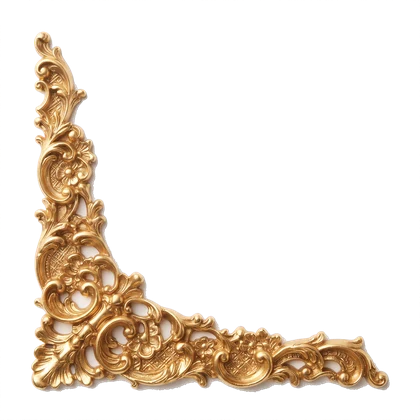
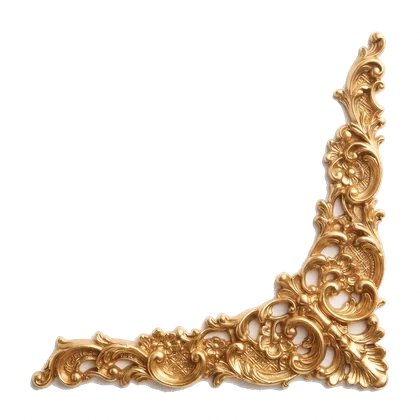
XV Niralys: rosas pequeñas en la portada, coronas mas grandes, esquinas al derecho, ?sinmarca para revisar

diff --git a/mis-xv-niralys/index.html b/mis-xv-niralys/index.html
@@ -458,7 +458,7 @@ body.esperando #fondo-fijo, body.esperando .invitacion { display: none; }   /* p
    4. PADRES Y PADRINOS
    ------------------------------------------------------------ */
 #padres { padding: 12cqw 8cqw 6cqw; }
-#padres .corona { --cw: 18cqw; margin-bottom: 4cqw; }
+#padres .corona { --cw: 34cqw; margin-bottom: 3cqw; }
 #padres .intro { max-width: 76cqw; margin: 0 auto; }
 .nombres { margin-top: 3cqw; font: 400 10.4cqw/1.15 var(--script); color: var(--rosa-titulo); }
 .nombres .y { display: block; font-size: .7em; line-height: 1; color: var(--oro); }
@@ -474,7 +474,7 @@ body.esperando #fondo-fijo, body.esperando .invitacion { display: none; }   /* p
   box-shadow: 0 0 0 1.6px var(--oro), 0 0 0 5px rgba(255, 248, 240, .9), 0 0 0 6.4px var(--oro), 0 18px 36px rgba(140, 60, 60, .18); }
 .panel::before { content: ""; position: absolute; inset: 2.6cqw; z-index: 0; border: 1.4px solid var(--oro); border-radius: 38.4cqw 38.4cqw 1.6cqw 1.6cqw / 27.4cqw 27.4cqw 1.6cqw 1.6cqw; pointer-events: none; }
 .panel > * { position: relative; z-index: 1; }
-.panel > .corona { position: absolute; left: 50%; top: -10cqw; translate: -50% 0; --cw: 24cqw; z-index: 3; }
+.panel > .corona { position: absolute; left: 50%; top: -15cqw; translate: -50% 0; --cw: 36cqw; z-index: 3; }
 .panel .esq { position: absolute; z-index: 0; bottom: 3.4cqw; right: 3.4cqw; width: 19cqw; aspect-ratio: 300 / 355; background: var(--img-esquina) center / contain no-repeat; pointer-events: none; }
 .panel .esq.izq { right: auto; left: 3.4cqw; scale: -1 1; }
 .panel:has(.esq) { padding-bottom: 21cqw; }
@@ -605,14 +605,14 @@ body.esperando #petalos { display: none; }
 #portada .arriba img { display: block; width: 56cqw; margin: 0 auto; }
 .marco-arco .texto p { font-size: 4.6cqw; line-height: 1.45; }
 .firma-oro { display: block; width: 40cqw; margin: 1cqw auto 0; }
-#portada .portada-img { top: 17%; height: 83%; object-position: 66% 8%; -webkit-mask-image: linear-gradient(transparent 0, #000 7%, #000 58%, transparent 86%); mask-image: linear-gradient(transparent 0, #000 7%, #000 58%, transparent 86%); }
+#portada .portada-img { top: 9%; height: 91%; object-position: 66% 8%; -webkit-mask-image: linear-gradient(transparent 0, #000 7%, #000 58%, transparent 86%); mask-image: linear-gradient(transparent 0, #000 7%, #000 58%, transparent 86%); }
 #padres { padding-top: 26cqw; }
 #padres .invito { font-size: 3.5cqw; letter-spacing: .12em; padding-left: .12em; }
 #padres > .revela:first-of-type, #padres .invito { position: relative; max-width: 74cqw; margin-left: auto; margin-right: auto; }
 #padres > .revela:first-of-type { padding: 6cqw 4cqw 4cqw; border-radius: 6cqw; background: radial-gradient(ellipse at center, rgba(255, 250, 244, .92) 55%, rgba(255, 250, 244, 0) 100%); }
 #padres-nombres { font-size: 8.4cqw; }
 #portada { aspect-ratio: auto; width: 100%; height: 100svh; min-height: 560px; max-height: 1000px; }
-#portada .marco-flores { position: absolute; left: 0; top: 0; z-index: 2; width: 100%; height: auto; pointer-events: none; }
+#portada .marco-flores { position: absolute; left: 0; top: 0; z-index: 2; width: 100%; height: 92%; object-fit: fill; pointer-events: none; }
 #portada .encabezado { z-index: 4; }
 #cuenta { padding-bottom: 10cqw; overflow: visible; }
 .contador > div { box-shadow: 0 0 0 1.4px var(--oro), 0 8px 18px rgba(80, 20, 30, .18); }
@@ -1085,7 +1085,8 @@ body.esperando #petalos { display: none; }
   if (!co.whatsapp) $('confirmacion-boton').addEventListener('click', mostrarAviso);
 
   /* ---------- Vista previa para el cliente: marca de agua y protección ---------- */
-  if (MU.activa) {
+  // ?sinmarca = Jay revisa el diseño sin la marca de agua (la clienta recibe el enlace normal, con marca)
+  if (MU.activa && !location.search.includes('sinmarca')) {
     document.body.classList.add('muestra');
     const t = (MU.texto || 'MUESTRA').replace(/&/g, '&amp;').replace(/</g, '&lt;');
     const tinta = { negro: ["rgba(15,8,8,.45)", "rgba(255,255,255,.3)"], blanco: ["rgba(255,255,255,.5)", "rgba(0,0,0,.2)"] }[MU.color] || ["rgba(184,135,58,.42)", "rgba(255,255,255,.25)"];
